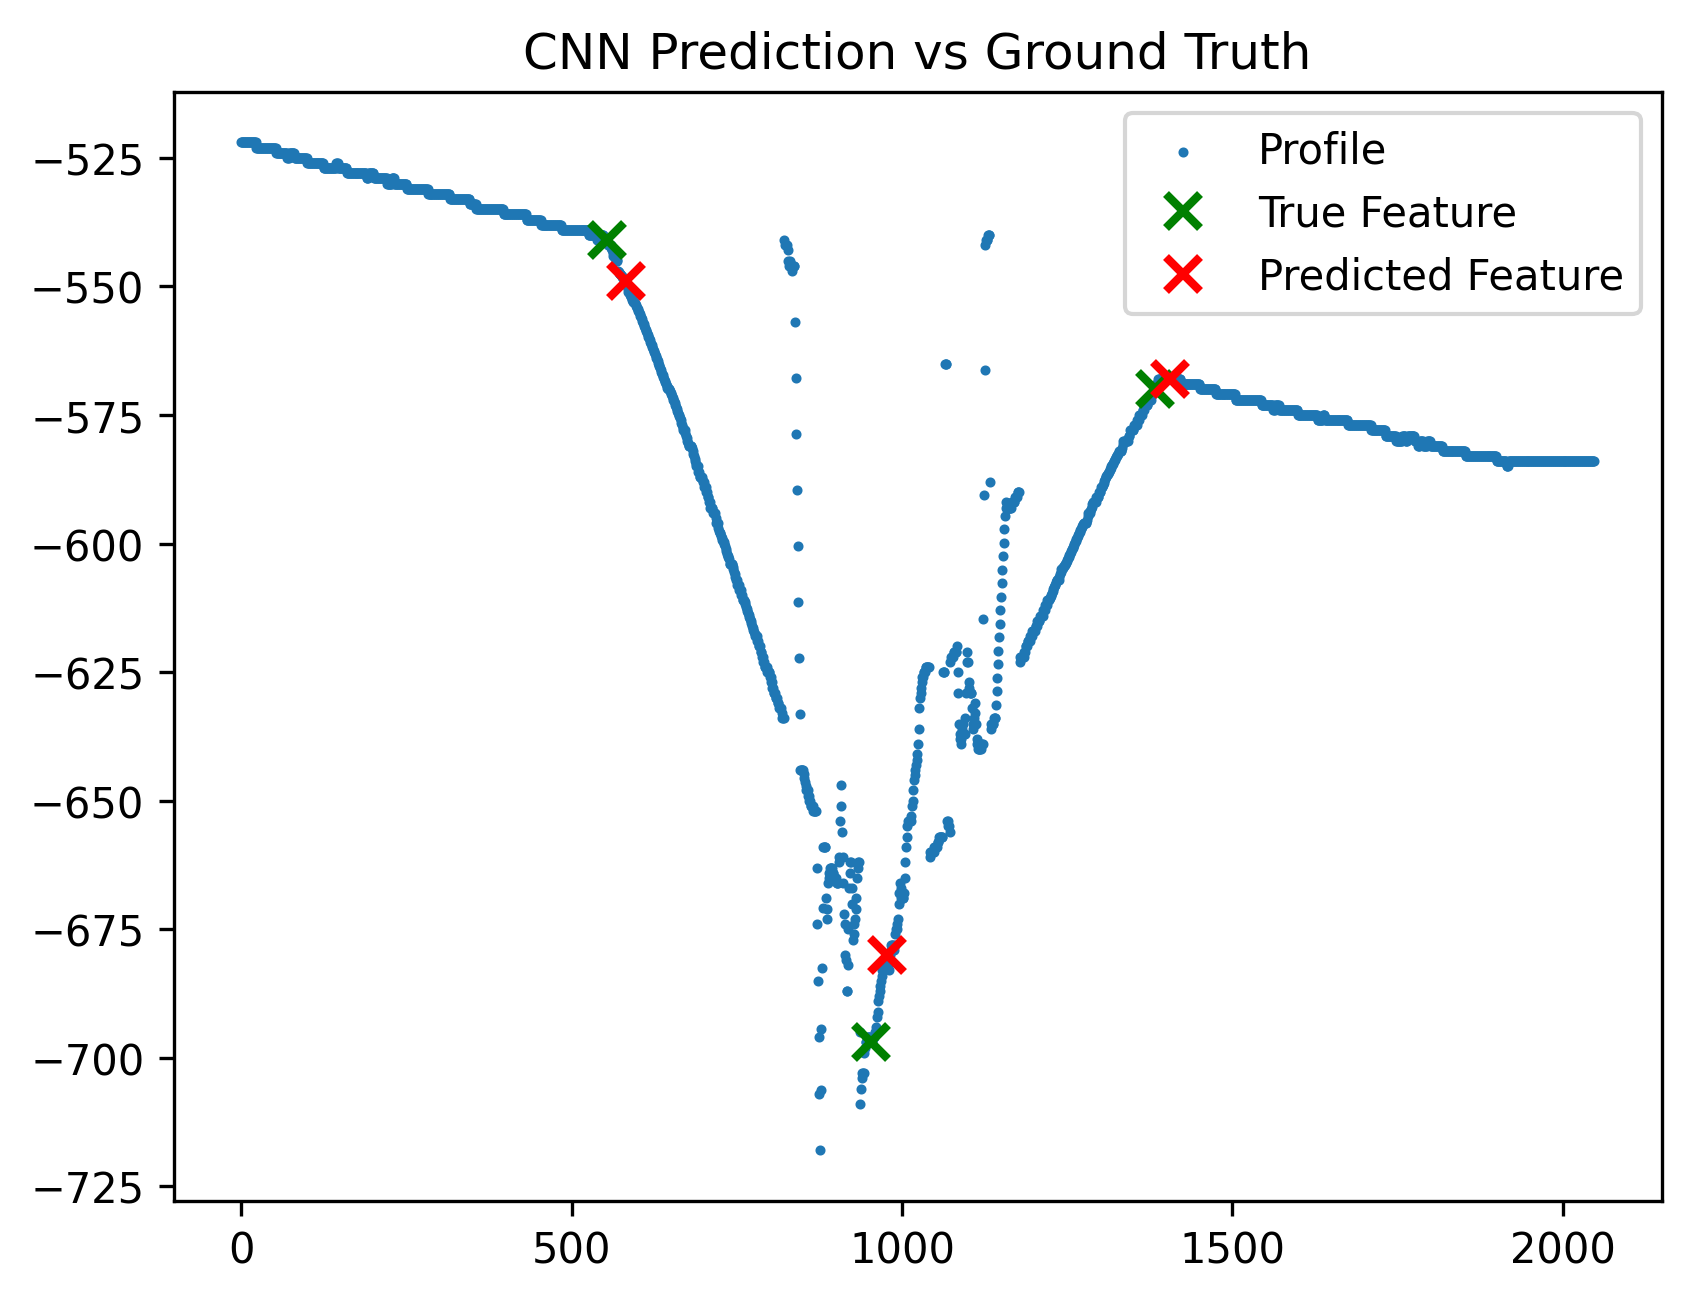
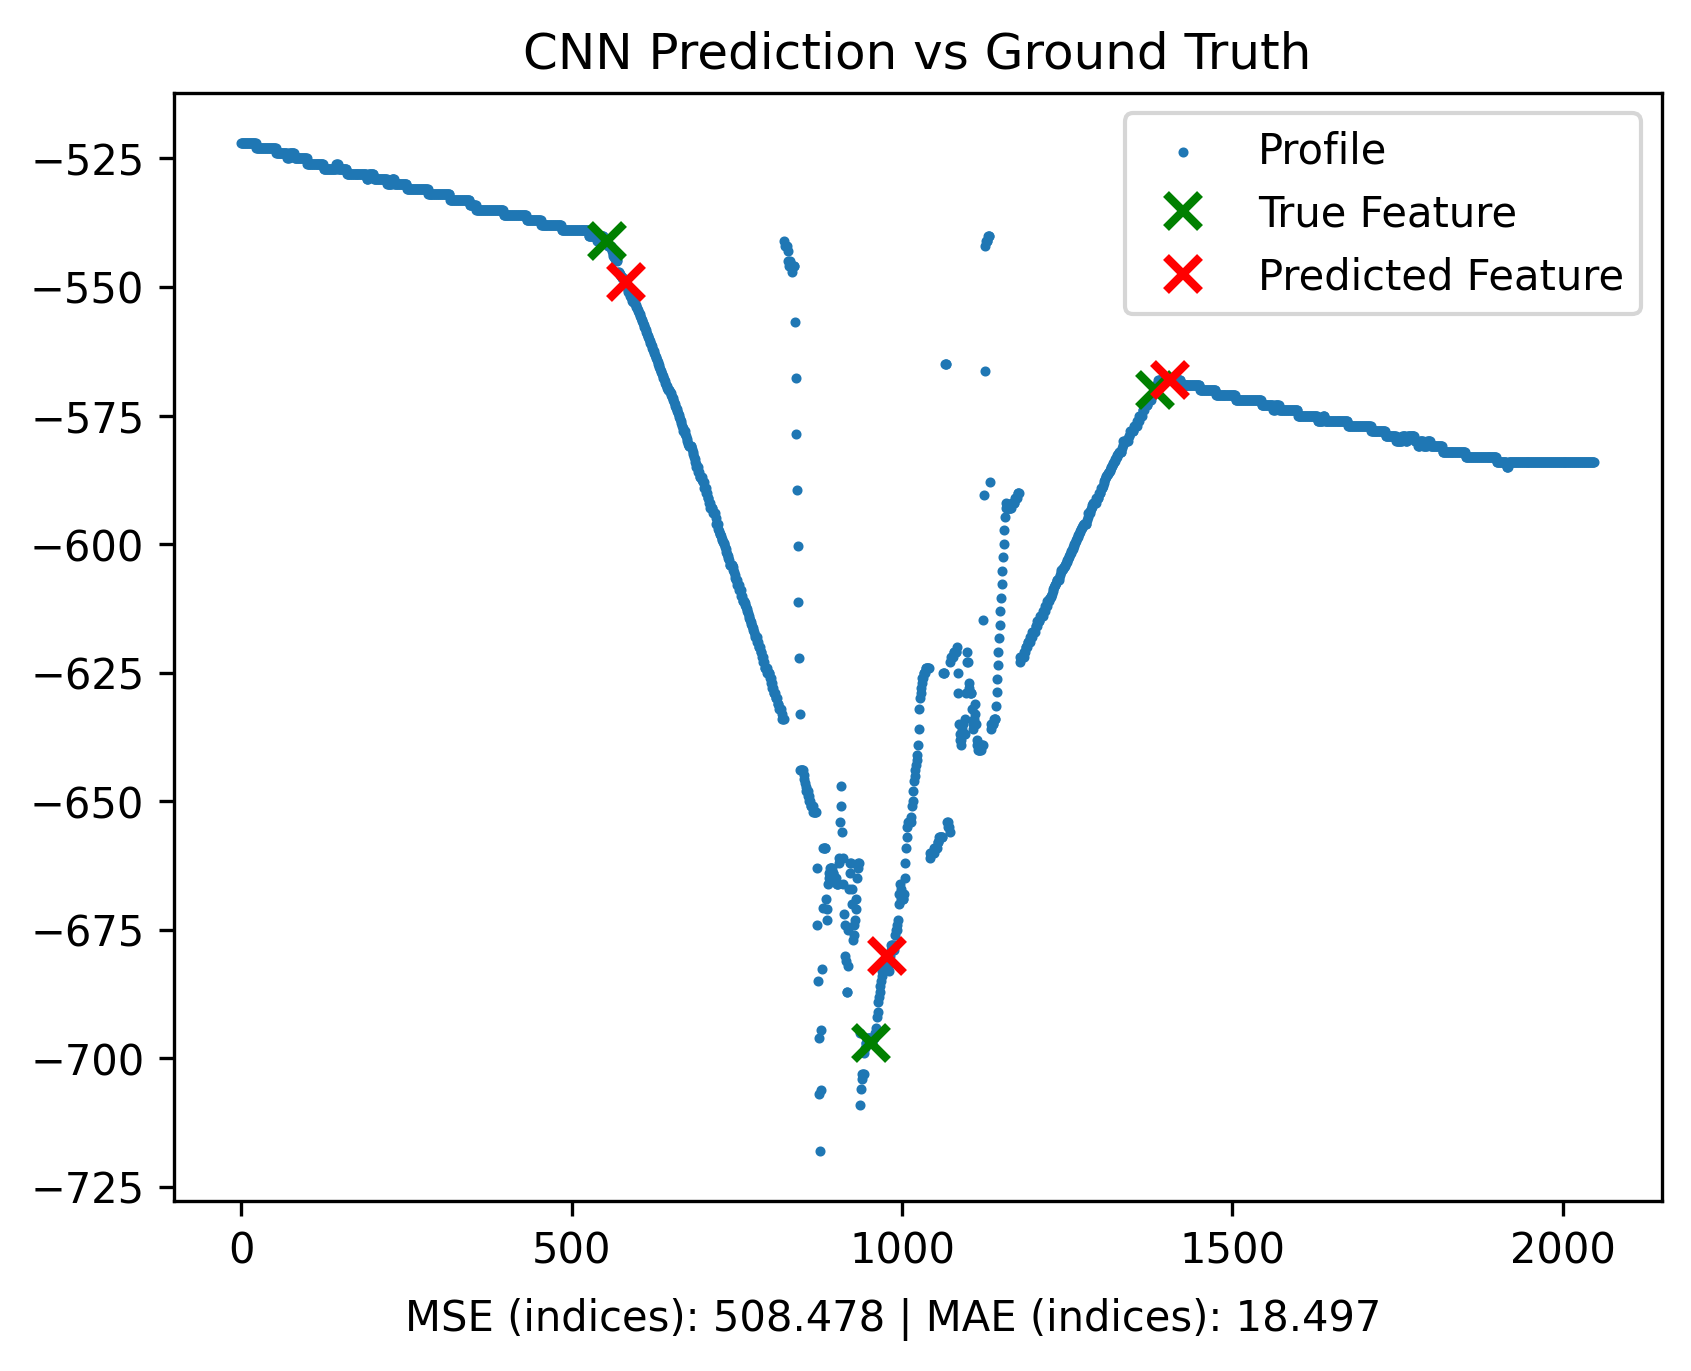
mse and mae in plot

diff --git a/CNN_feature_extraction.py b/CNN_feature_extraction.py
@@ -188,7 +188,7 @@ def evaluate_model(device, test_dataset):
 
     return all_targets, all_preds, avg_abs_error, mse
 
-def plot_prediction(index, X_test, all_targets, all_preds, scaler):
+def plot_prediction(index, X_test, all_targets, all_preds, scaler, mse, mae):
 
     profile = np.array(scaler.inverse_transform(X_test[index].reshape(1, -1))[0])
     #print(profile[0])
@@ -213,6 +213,12 @@ def plot_prediction(index, X_test, all_targets, all_preds, scaler):
     plt.title("CNN Prediction vs Ground Truth")
 
     if index == 0:
+        fig.text(
+            0.5, 0.02,
+            f"MSE (indices): {mse:.3f} | MAE (indices): {mae:.3f}",
+            ha="center",
+            fontsize=10
+        )
         save_plot(fig)
 
     plt.waitforbuttonpress()
@@ -231,7 +237,7 @@ def main(train=False, clean=False):
     all_targets, all_preds, mae, mse = evaluate_model(device, test_dataset)
 
     for i in range(1):
-        plot_prediction(i, X_test, all_targets, all_preds, scaler)
+        plot_prediction(i, X_test, all_targets, all_preds, scaler, mse, mae)
         plt.close()
 
 if __name__ == '__main__':
